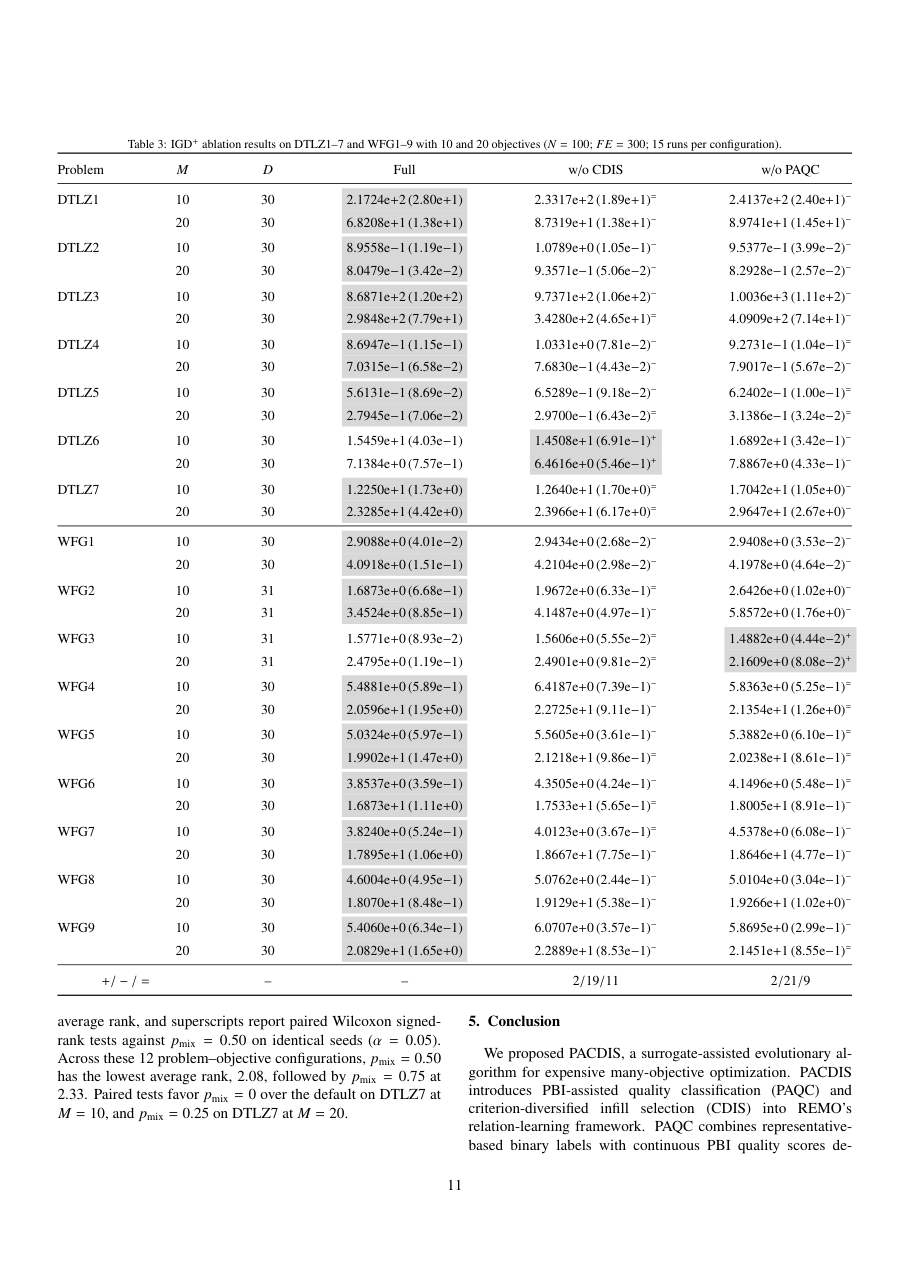
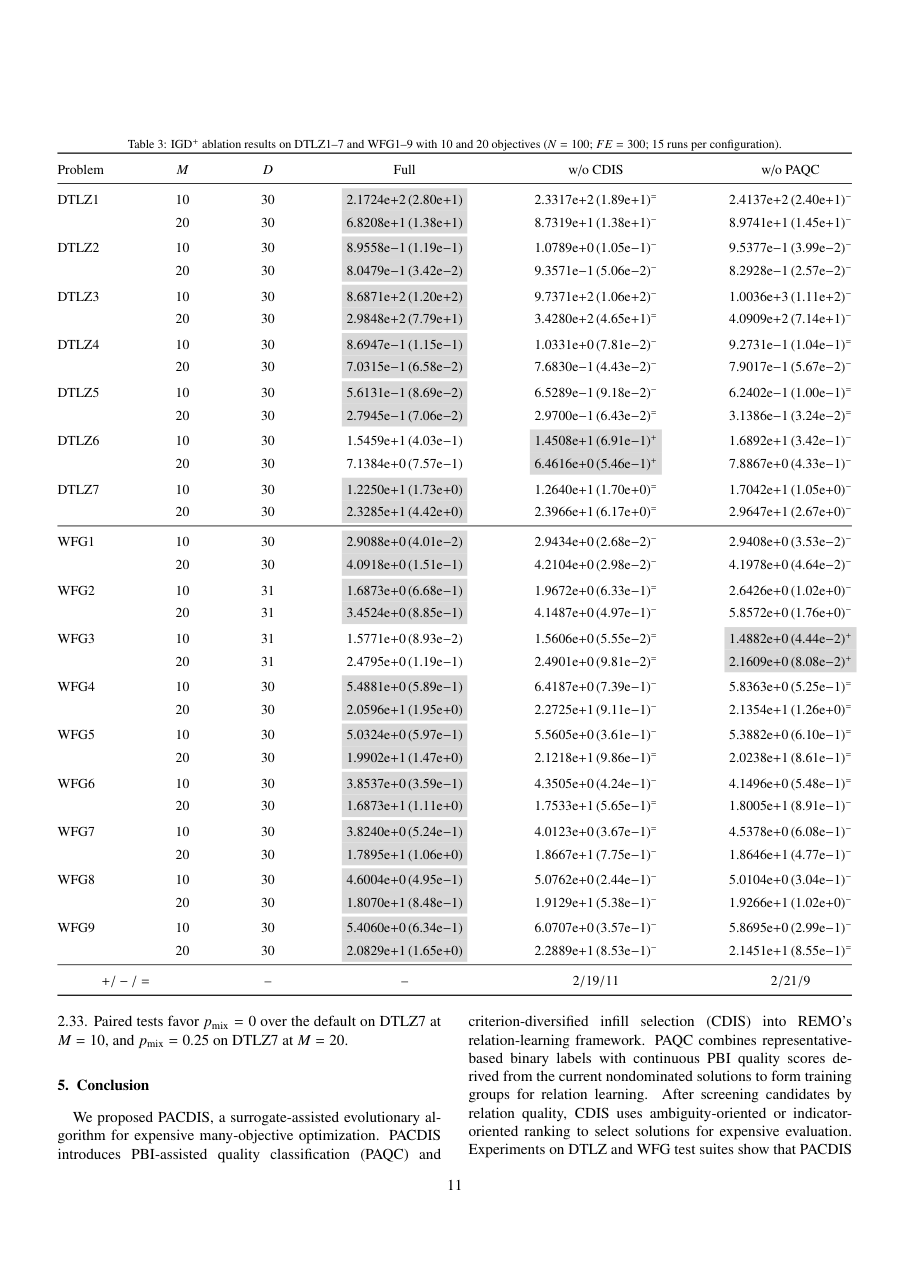
论文：删除"这些选定案例/selected cases"式的选图自我暴露
- 英文 "These selected cases show PACDIS's lower endpoint means on WFG7, WFG2,
  and DTLZ1, alongside its weaker performance on WFG3." 删除（面板清单与图注已说明画了什么）
- 英文 "PACDIS's advantage on the selected WFG cases persists…" 改为
  "The advantage therefore persists…"（去掉 "selected WFG cases"）
- 中文对应两句同步删除/改写
- 13 页、0 Overfull

Changed region(s): [[0.0615, 0.777, 0.9538, 0.9013]]

diff --git a/论文写作/HPDC-MaOEA.tex b/论文写作/HPDC-MaOEA.tex
@@ -912,8 +912,7 @@ Section~\ref{sec:exp:ablation} isolates the contributions of PAQC and CDIS.
 Figure~\ref{fig:exp:convergence} compares the mean IGD$^+$ trajectories of the
 seven algorithms on eight configurations. Panels (a)--(f) cover WFG7 and WFG2
 at $M=10$, 15, and 20, panel (g) covers DTLZ1 at $M=10$, and panel (h) covers
-WFG3 at $M=10$. These selected cases show PACDIS's lower endpoint means on
-WFG7, WFG2, and DTLZ1, alongside its weaker performance on WFG3.
+WFG3 at $M=10$.
 Curves average 20 runs per algorithm on a unit-FE grid; the tables report the
 final workbook means. We carry forward each run's latest saved value between
 checkpoints.
@@ -932,8 +931,8 @@ HES-EA makes late gains on both WFG problems, particularly on WFG2,
 where it provides the closest endpoint comparison at all three objective
 counts. PACDIS also continues to improve on ten-objective DTLZ1 in
 panel (g), ending at 137.23 compared with 155.90 for REMO.
-These trajectories show that PACDIS's advantage on the selected WFG cases
-persists as the objective count increases from 10 to 20.
+The advantage therefore persists as the objective count increases
+from 10 to 20.
 
 \input{figures/figure_convergence_fe500}
 

diff --git a/论文写作/HPDC-MaOEA_中文版.md b/论文写作/HPDC-MaOEA_中文版.md
@@ -6,7 +6,7 @@
 
 单位：某大学某系；地址：某街，某市，某省，某国；邮编：000000。
 
[2 lines of base64/hex data omitted]
 >
 > 表格数值与统计符号保留原文，Markdown 用加粗标出原表的灰色最优单元格。参考文献保留原始英文著录，便于检索。作者与单位占位保留。
 
@@ -415,9 +415,9 @@ $$
 
 HES-EA 在全部三种目标数下的 DTLZ7 和 WFG8 上取得最低均值。当 $M=10,15,20$ 时，它相对于 PACDIS 的 $+/-/=$ 计数分别为 6/8/2、5/8/3、5/7/4。REMO 对应计数为 1/9/6、2/10/4、3/9/4，PIEA 为 4/9/3、3/11/2、3/9/4。SSDE、PC-SAEA、PIEA 和 CSEA 在每种目标数下，相对于 PACDIS 的报告败例均多于胜例。WFG3 仍是弱项：PACDIS 在该问题上没有取得最低均值，且多个基线获得 $+$ 标记。第 4.3 节单独分离出 PAQC 和 CDIS 的贡献。
 
-**不同目标数下的收敛表现。** 图 3 比较七个算法在八个配置上的平均 IGD$^+$ 轨迹。（a）–（f）为 WFG7 与 WFG2 在 $M=10$、15、20 下的结果，（g）为 DTLZ1（$M=10$），（h）为 WFG3（$M=10$）。这些选定案例同时展示 PACDIS 在 WFG7、WFG2 和 DTLZ1 上较低的终点均值，以及在 WFG3 上较弱的表现。曲线在单位 FE 网格上对每个算法的 20 次运行求平均，表格报告最终工作簿均值。在相邻检查点之间，各次运行沿用最近一次保存的指标值。每条曲线从全部 20 次运行均有观测值时开始。PC-SAEA 和 HES-EA 在 $D=30$ 时从 $FE=329$ 开始，在 $D=31$ 时从 $FE=340$ 开始；PIEA 从 $FE=100$ 开始，每轮评价一个新解。
+**不同目标数下的收敛表现。** 图 3 比较七个算法在八个配置上的平均 IGD$^+$ 轨迹。（a）–（f）为 WFG7 与 WFG2 在 $M=10$、15、20 下的结果，（g）为 DTLZ1（$M=10$），（h）为 WFG3（$M=10$）。曲线在单位 FE 网格上对每个算法的 20 次运行求平均，表格报告最终工作簿均值。在相邻检查点之间，各次运行沿用最近一次保存的指标值。每条曲线从全部 20 次运行均有观测值时开始。PC-SAEA 和 HES-EA 在 $D=30$ 时从 $FE=329$ 开始，在 $D=31$ 时从 $FE=340$ 开始；PIEA 从 $FE=100$ 开始，每轮评价一个新解。
 
-在图 3（a）–（f）中，PACDIS 在三个目标数下的 WFG7 和 WFG2 上均取得最低终点均值。在 WFG7 上，到 $FE=150$ 时，其均值已低于 REMO、SSDE 和 CSEA；在全部七个算法均有观测值之后，仍保持最低均值。在 WFG2 上，PACDIS 同样在前期取得改进，并在各目标数下的 $FE=340$–500 区间保持最低均值。HES-EA 在两个 WFG 问题上均在后期取得改进，尤其是在 WFG2 上，它在三个目标数下都提供最接近的终点对照。PACDIS 在子图（g）的十目标 DTLZ1 上也持续改进，终点为 137.23，REMO 为 155.90。这些轨迹表明，在选定的 WFG 案例中，目标数从 10 增至 20 时，PACDIS 仍保持优势。
+在图 3（a）–（f）中，PACDIS 在三个目标数下的 WFG7 和 WFG2 上均取得最低终点均值。在 WFG7 上，到 $FE=150$ 时，其均值已低于 REMO、SSDE 和 CSEA；在全部七个算法均有观测值之后，仍保持最低均值。在 WFG2 上，PACDIS 同样在前期取得改进，并在各目标数下的 $FE=340$–500 区间保持最低均值。HES-EA 在两个 WFG 问题上均在后期取得改进，尤其是在 WFG2 上，它在三个目标数下都提供最接近的终点对照。PACDIS 在子图（g）的十目标 DTLZ1 上也持续改进，终点为 137.23，REMO 为 155.90。因此，目标数从 10 增至 20 时，PACDIS 的优势依然保持。
 
 ![图 3：七个算法在八个配置上的平均 IGD+ 收敛曲线](D:/PlatEMO-master/论文写作/figures/fig_conv8_overview.png)
 
